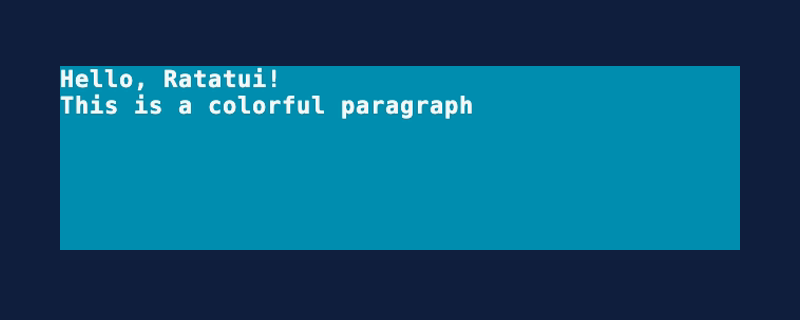
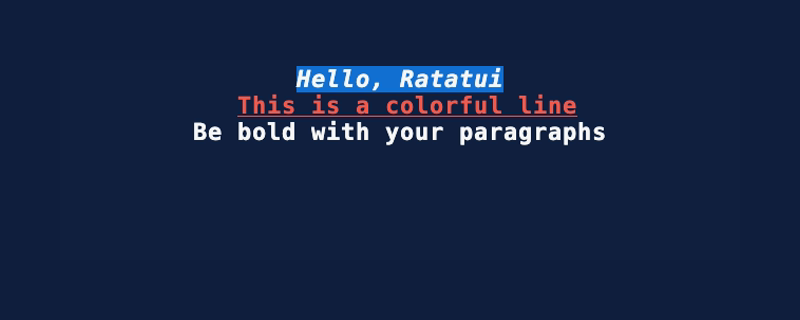
Update example with a few more lines

diff --git a/code/widget-showcase/src/examples/paragraph.rs b/code/widget-showcase/src/examples/paragraph.rs
@@ -1,9 +1,16 @@
 use ratatui::{prelude::*, widgets::*};
 
 pub fn render(frame: &mut Frame) {
-    let text = "Hello, Ratatui!\nThis is a colorful paragraph";
+    let text = vec![
+        Line::from("Hello, Ratatui".white().on_blue().italic()),
+        Line::from("This is a colorful line".red().underlined()),
+        Line::from("Be bold with your paragraphs".bold()),
+    ];
 
-    let paragraph = Paragraph::new(text).bold().white().on_cyan();
+    let paragraph = Paragraph::new(text)
+        .bold()
+        .white()
+        .alignment(Alignment::Center);
 
     frame.render_widget(paragraph, frame.size());
 }
